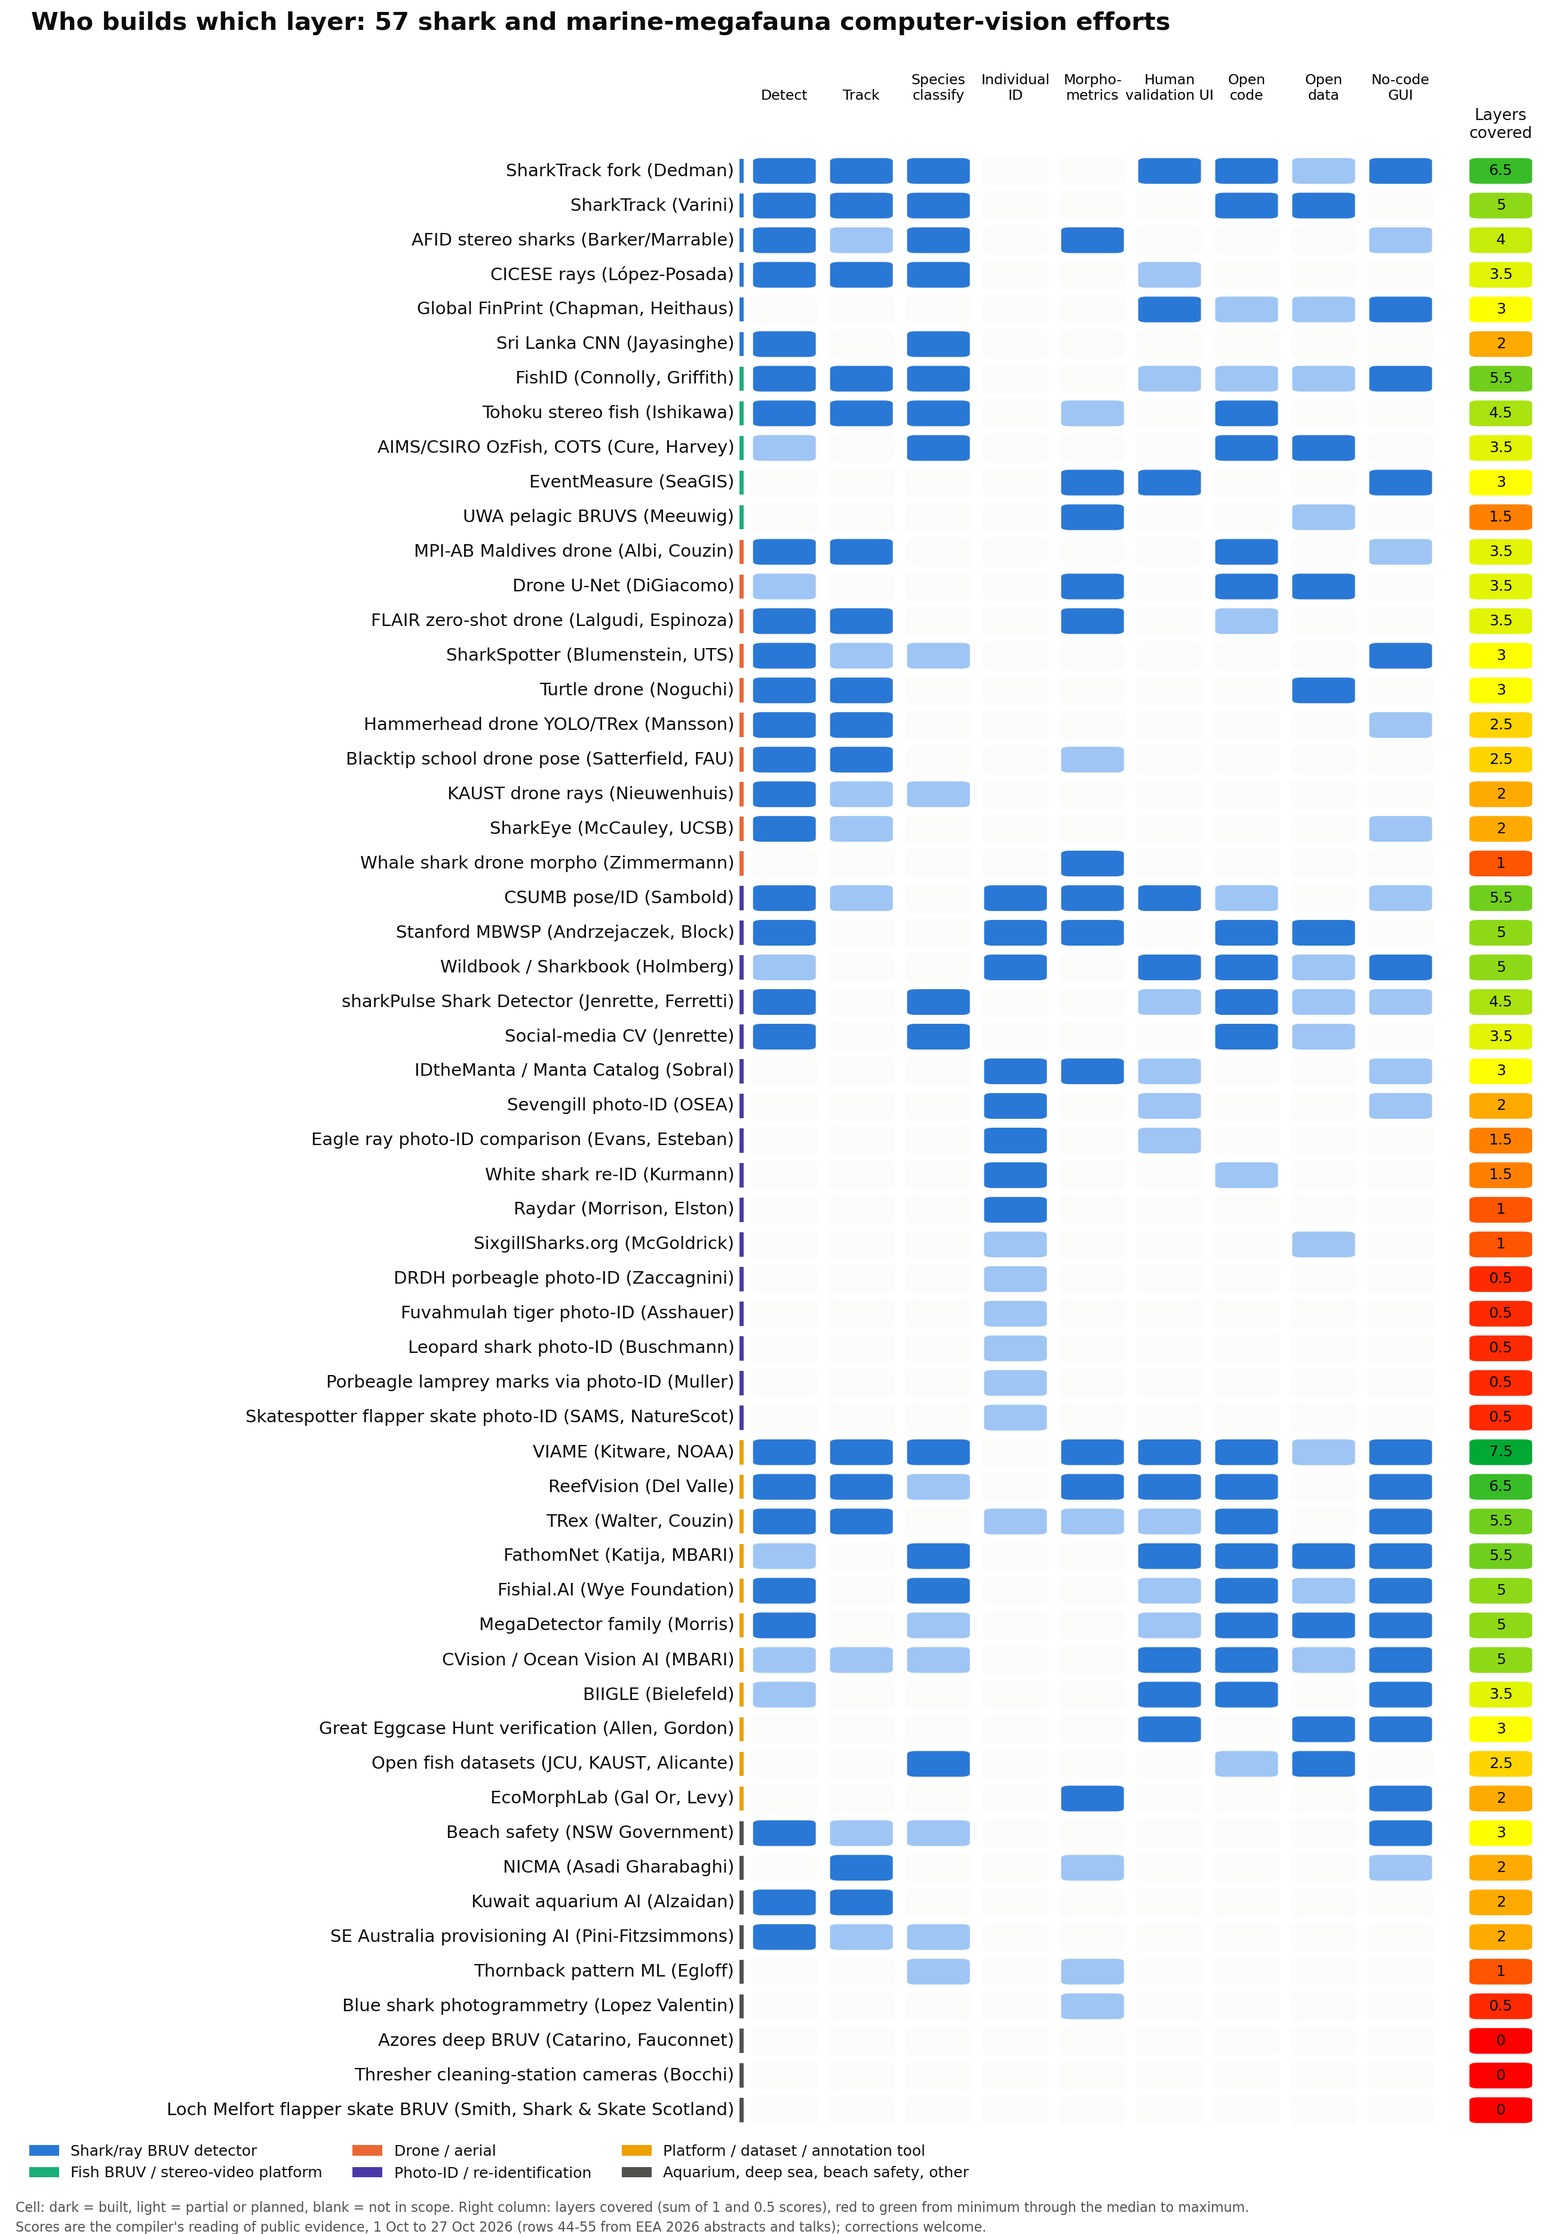
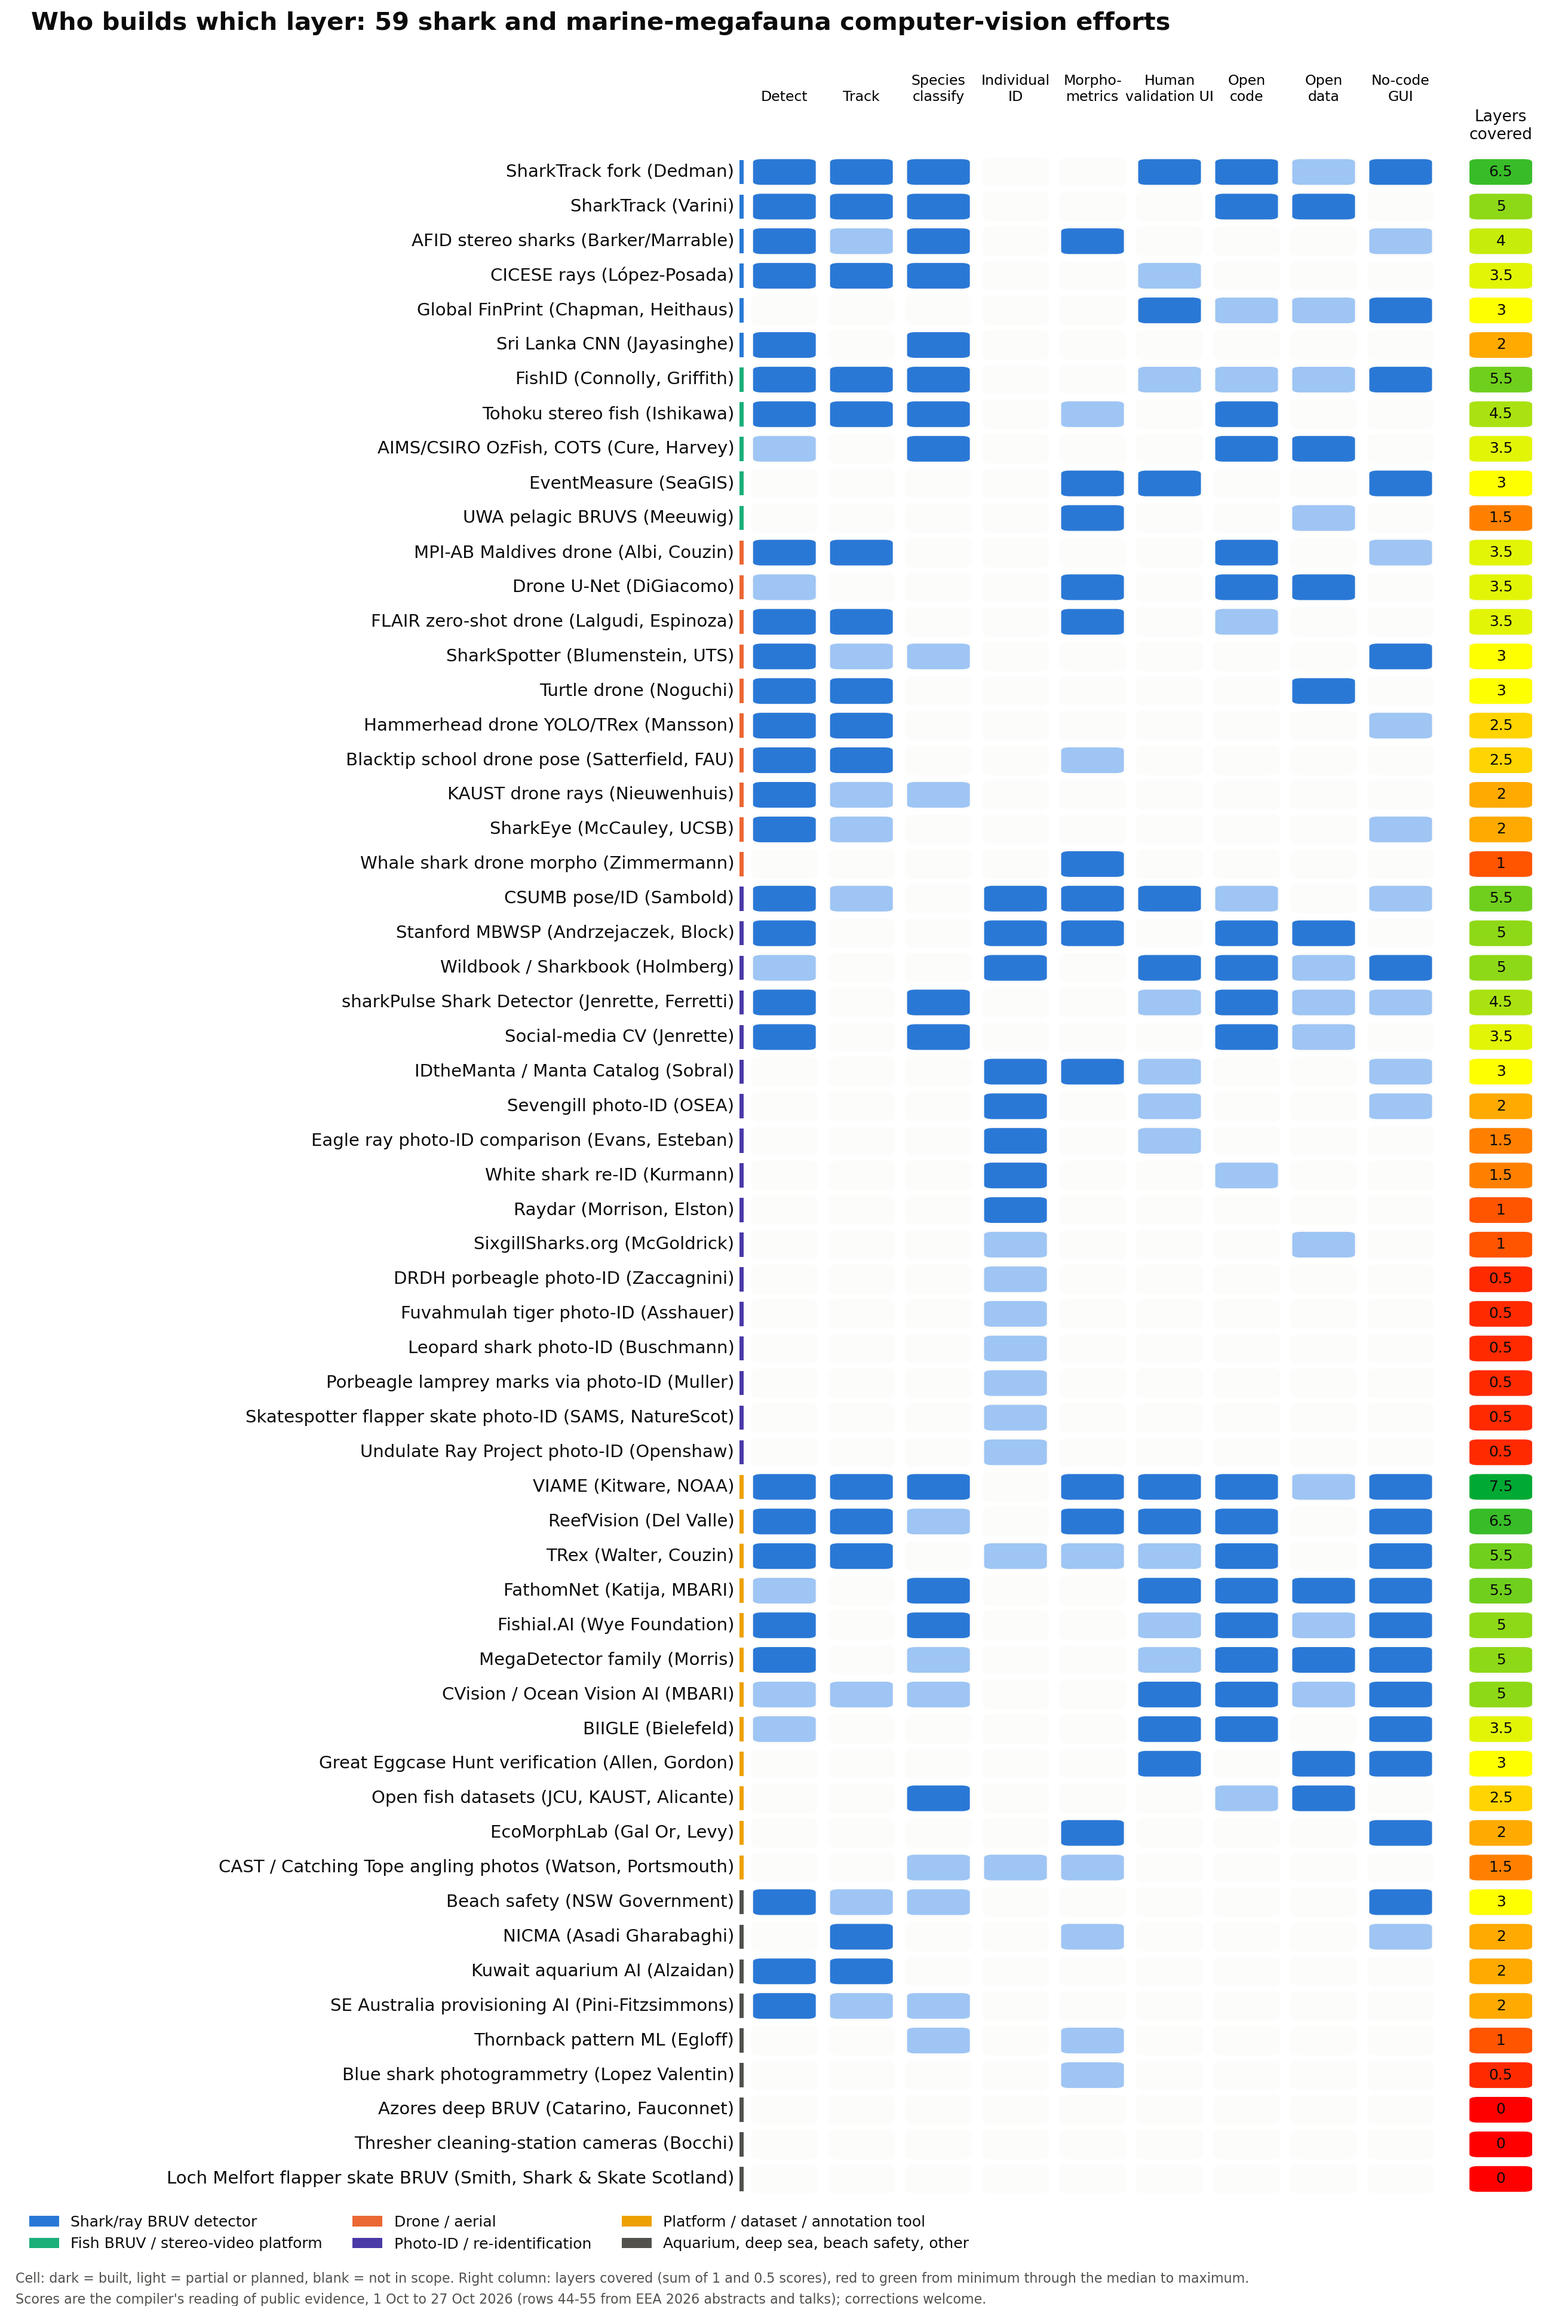
Inventory: add rows 58 (CAST / Catching Tope, Watson, Portsmouth: angling-competition catch photos on measuring boards) and 59 (Undulate Ray Project, Dorset photo-ID); 59 projects

diff --git a/inventory.md b/inventory.md
@@ -1,4 +1,4 @@
-# Inventory: 57 shark and marine-megafauna computer-vision projects
+# Inventory: 59 shark and marine-megafauna computer-vision projects
 
 Compiled 1 and 6 October 2026. Columns kept to what is public; contacts are omitted (use the project pages). Rows 44 to 55 are from EEA 2026 abstracts; rows 11, 44 to 51, 54, and 55 were re-checked against talk transcripts.
 
@@ -61,3 +61,5 @@ Compiled 1 and 6 October 2026. Columns kept to what is public; contacts are omit
 | 55 | Shark & Skate Scotland: flapper skate egg-laying site monitoring, Loch Melfort (EEA 2026 talk) | Aquarium, deep sea, beach safety, other | Lauren Smith, Chris Rickard; Shark & Skate Scotland (volunteer community science group), with Marnik van Cauter, Kilchoan Melfort Trust | Flapper skate Dipturus intermedius (Critically Endangered) egg-laying site at Campbell Rock, Loch Melfort, Scotland; 31 months of monthly SCUBA surveys of a marked plot (42 dives, 31 survey dives); 16 egg cases laid (13 spring, 2 autumn, 1 winter), viable cases measured and sampled non-invasively for genetics (University of Aberdeen); 10 BRUV deployments recorded 13 species (9 potential skate prey) but no D. intermedius; acoustic receiver logged two adult males tagged in the Firth of Lorn; Seasearch Observer forms recorded 62 species | No CV. BRUV footage reviewed by hand; diver surveys and photographs of egg cases and of live and dead skates; skate photographs are submitted to Skatespotter (SAMS photo-ID database) for individual ID | Not stated; skate photographs go to Skatespotter | Not stated | Published: Smith, Rickard and Van Cauter (2026), Aquatic Conservation: Marine and Freshwater Ecosystems, doi 10.1002/aqc.70374; EEA 2026 talk Tue 6 Oct 2026 (13:10 UK); transcript read 27 Oct 2026; BRUV effort limited by weather and volunteer time | EEA 2026 abstract booklet (Smith, Rickard, van Cauter); EEA 2026 talk transcript (2026-10-06_05-07_Lauren-Smith_Flapper-Skate-Egg-Site-Loch-Melfort); Crossref 10.1002/aqc.70374; email from Lauren Smith 27 Oct 2026 |
 | 56 | Skatespotter: flapper skate photo-ID catalogue, Scotland | Photo-ID / re-identification | SAMS (Scottish Association for Marine Science, Oban) and NatureScot; Benjamins et al. (2018 study); volunteer anglers, divers, and registered volunteer matchers | Flapper skate Dipturus intermedius, chiefly the Loch Sunart to the Sound of Jura MPA, now also Loch Linnhe and the Moray Firth; individuals told apart by dorsal spot patterns in photos from anglers and divers. Oct 2025 summary: 1,252 skate catalogued in the Firth of Lorn (3,954 captures since 2016, 52% recaptured at least once), 1,025 in the Sound of Jura, 129 Loch Linnhe, 88 Moray Firth; longest gap between photos 8 years | No automated matching stated: the 2018 study matched by visual pairwise comparison (486 photos, 373 capture events, 226 individuals); the site recruits registered volunteers to match photos to a 'residents' catalogue (best photo per skate); web upload of photos with optional capture details | Catalogue behind a login; gallery public; papers using the data listed on the site | Not stated | Active: catalogue updated about every 3 months; MPA summary Oct 2025; publications include Benjamins et al. 2018 (doi 10.1002/aqc.2937), and later papers on spatial management (doi 10.1002/aqc.4150) and reproduction from citizen-science photos (doi 10.1111/jfb.70044) | skatespotter.sams.ac.uk home page and 2025-10_MPA_summary.pdf (fetched 27 Oct 2026); Crossref and OpenAlex for doi 10.1002/aqc.2937; email from Lauren Smith 27 Oct 2026 |
 | 57 | Blacktip shark schooling: drone keypoint tracking and collective movement (FAU) | Drone / aerial | Darien Satterfield, Jumpstart postdoctoral associate, Florida Atlantic University (Charles E. Schmidt College of Science; PhD UC Davis), also OSEA co-founder (row 22); PIs Marianne Porter and Ashkaan Fahimipour (FAU Biological Sciences) | Blacktip sharks Carcharhinus limbatus, seasonal schooling aggregations in clear shallow water off eastern Florida (Palm Bay per her email); drone video from above. Aim: social movement rules behind organised swimming, and why schools switch between ordered and disordered motion after disturbances (the aggregations are protected, so disturbances are tested in agent-based simulations built from the footage) | Per-shark body keypoints from drone video (her example: about six points per shark, e.g. nose tip, tail tip, fin tips, on ~40-50 sharks per frame), tracked through time; deep-learning pipelines and agent-based models. Software and models not stated | Not stated | Not stated | Active: FAU Jumpstart postdoc project (FAU news, 28 Oct 2025); example tracking video sent 28 Oct 2026; agreed to join ocean-ID (28 Oct 2026) | FAU College of Science news, 'Fins, Feeds and Algorithms' (28 Oct 2025); FAU postdoc bio page; email from Darien Satterfield 28 Oct 2026 with a 6 s example video (1080p, 30 fps) |
+| 58 | CAST / Catching Tope: angling-competition catch photos on measuring boards, Solent (EEA 2026 talk) | Platform / dataset / annotation tool | Gordon Watson (Professor of Marine Zoology, lead), Ian Hendy, Joanne Preston (PhD co-supervisor), Christina Hunt (CAST contact), Institute of Marine Sciences, University of Portsmouth; Kieran Hyder (Cefas); Ross Honey (Angling Spirit, organiser of the Sea Angling Classic) | Catch-photograph-release Sea Angling Classic (SAC, since 2021) and its qualifiers, east of the Isle of Wight, Solent, England: five target groups (bass, black bream, smoothhound Mustelus asterias/spp., skates and rays Raja spp., tope Galeorhinus galeus). Elasmobranch catches per year: smoothhound 205-555 (max 121 cm), tope 11-155 (max 163 cm), five ray species 26-127 combined (thornback, undulate, spotted, blonde, small-eyed). Over 3,000 geolocated images since 2021; 400-600+ anglers, up to 60 recreational and 11 charter teams a year | Each fish photographed on a standard SAC measuring board with a team card, geolocated and uploaded to the SAC leaderboard (species, length, time, location); vessel GPS tracks and deck GoPro footage give effort and CPUE on a 1 km grid. All images checked by the team by hand; disease and damage scored by external experts; molecular ID for hard species (e.g. smoothhound species). A previous project (CAST) tried automatic species ID and measurement from the photos ('a new AI software', CAST blog Nov 2024) but ran into technical challenges (Watson, email 29 Oct 2026). Individual ID by pattern recognition for rays with the Undulate Ray Project (row 59); too few images so far to test re-sighting across competitions. Catching Tope adds habitat surveys (bathymetry, sediment, macrofauna, BRUVs, eDNA with the Solent Seascape Project), acoustic telemetry and ultrasonography of tope in 2027-2028 (European Tracking Network), and angler diaries | Not public; Watson offered to share the images (email 29 Oct 2026) | Not stated | CAST (Defra Fisheries Industry Science Partnerships, >GBP 560k) funding ended 2025; Catching Tope funded July 2026 by Natural England's Species Recovery Programme (GBP 230k, 2026-2029; partners Cefas, Angling Spirit); EEA 2026 talk Tue 6 Oct 2026 (Citizen Science and LEK, UK 13:20); transcript and slides read 29 Oct 2026; self-funded PhD project advertised | EEA 2026 abstract booklet (Watson, Hendy, Hyder); talk transcript and 16 slide images (2026-10-06_04-13_Malo-Rio_Mediterranean-Sharks-Fishers-Knowledge.pptx, mislabelled: it holds Watson's talk); University of Portsmouth news 8 Jul 2026 and CAST blog 19 Nov 2024 (fetched 29 Oct 2026); gov.uk Species Recovery Programme 2026-2029 award list; Portsmouth PhD project page; email from Gordon Watson 29 Oct 2026 |
+| 59 | The Undulate Ray Project: diver and angler photo-ID, Dorset | Photo-ID / re-identification | Martin and Sheilah Openshaw (volunteers, run the project); Matt Doggett (co-author of the 2018 report); divers and anglers as photographers; genetics link with the University of Manchester | Undulate ray Raja undulata off the Dorset coast between Portland and St Albans Head, England; individuals told apart by dorsal pattern in diver and angler photos. Mar 2018: >600 ray records from 88 contributors, >500 individuals, 59 seen twice or more; Sep 2020: 1,100 identification photos from 121 contributors, 133 rays matched; longest record 8 sightings over 4 years | Photo-ID by dorsal pattern, adapted from a whale shark project; the site says 'using computer recognition' but names no software (I3S, the whale shark tool, is the likely one: unconfirmed) | Not stated; catalogue not public | Not stated | Active at least to 2020 (Wildlife Trusts essay, 14 Sep 2020); BSAC Jubilee Trust report Mar 2018; named on Watson's EEA 2026 slide (6 Oct 2026) as CAST's pattern-recognition partner | undulateray.uk home page; BSAC report 'The Undulate Ray Project' (Doggett, Openshaw and Openshaw, Mar 2018); Wildlife Trusts '26 Wild essays: The Undulate Ray' (14 Sep 2020); all via search and fetch 29 Oct 2026; Watson EEA 2026 slide 9; email from Gordon Watson 29 Oct 2026 |

diff --git a/README.md b/README.md
@@ -6,7 +6,7 @@
 
 ## The problem
 
-AI-assisted coding has removed the barrier that used to stop a field biologist from building a detector. The result: 57 shark and marine-megafauna computer-vision projects inventoried in October 2026, of which 27 have built their own detector and 15 their own tracker, almost all on the same Ultralytics YOLO stack, each trained on one region and failing in the next. Only 9 publish data. 8 have automated individual identification; the long-running photo-ID catalogues presented at EEA 2026 are matched by hand. The largest video archives hold no models at all. Nobody connects the layers.
+AI-assisted coding has removed the barrier that used to stop a field biologist from building a detector. The result: 59 shark and marine-megafauna computer-vision projects inventoried in October 2026, of which 27 have built their own detector and 15 their own tracker, almost all on the same Ultralytics YOLO stack, each trained on one region and failing in the next. Only 9 publish data. 8 have automated individual identification; the long-running photo-ID catalogues presented at EEA 2026 are matched by hand. The largest video archives hold no models at all. Nobody connects the layers.
 
 ![Who builds which layer](figures/fig_overlap_matrix.png)
 
@@ -39,10 +39,10 @@ One open platform built as six modules with stable interfaces, each owned by a g
 
 ## The inventory
 
-57 projects, compiled 1 October 2026 from public sources (GitHub and Zenodo APIs, project pages, conference abstracts) and extended on 6 October 2026 from the EEA 2026 abstract booklet. By category:
+59 projects, compiled 1 October 2026 from public sources (GitHub and Zenodo APIs, project pages, conference abstracts) and extended on 6 October 2026 from the EEA 2026 abstract booklet. By category:
 
-- Photo-ID / re-identification: 16
-- Platform / dataset / annotation tool: 11
+- Photo-ID / re-identification: 17
+- Platform / dataset / annotation tool: 12
 - Drone / aerial: 10
 - Aquarium, deep sea, beach safety, other: 9
 - Shark/ray BRUV detector: 6
